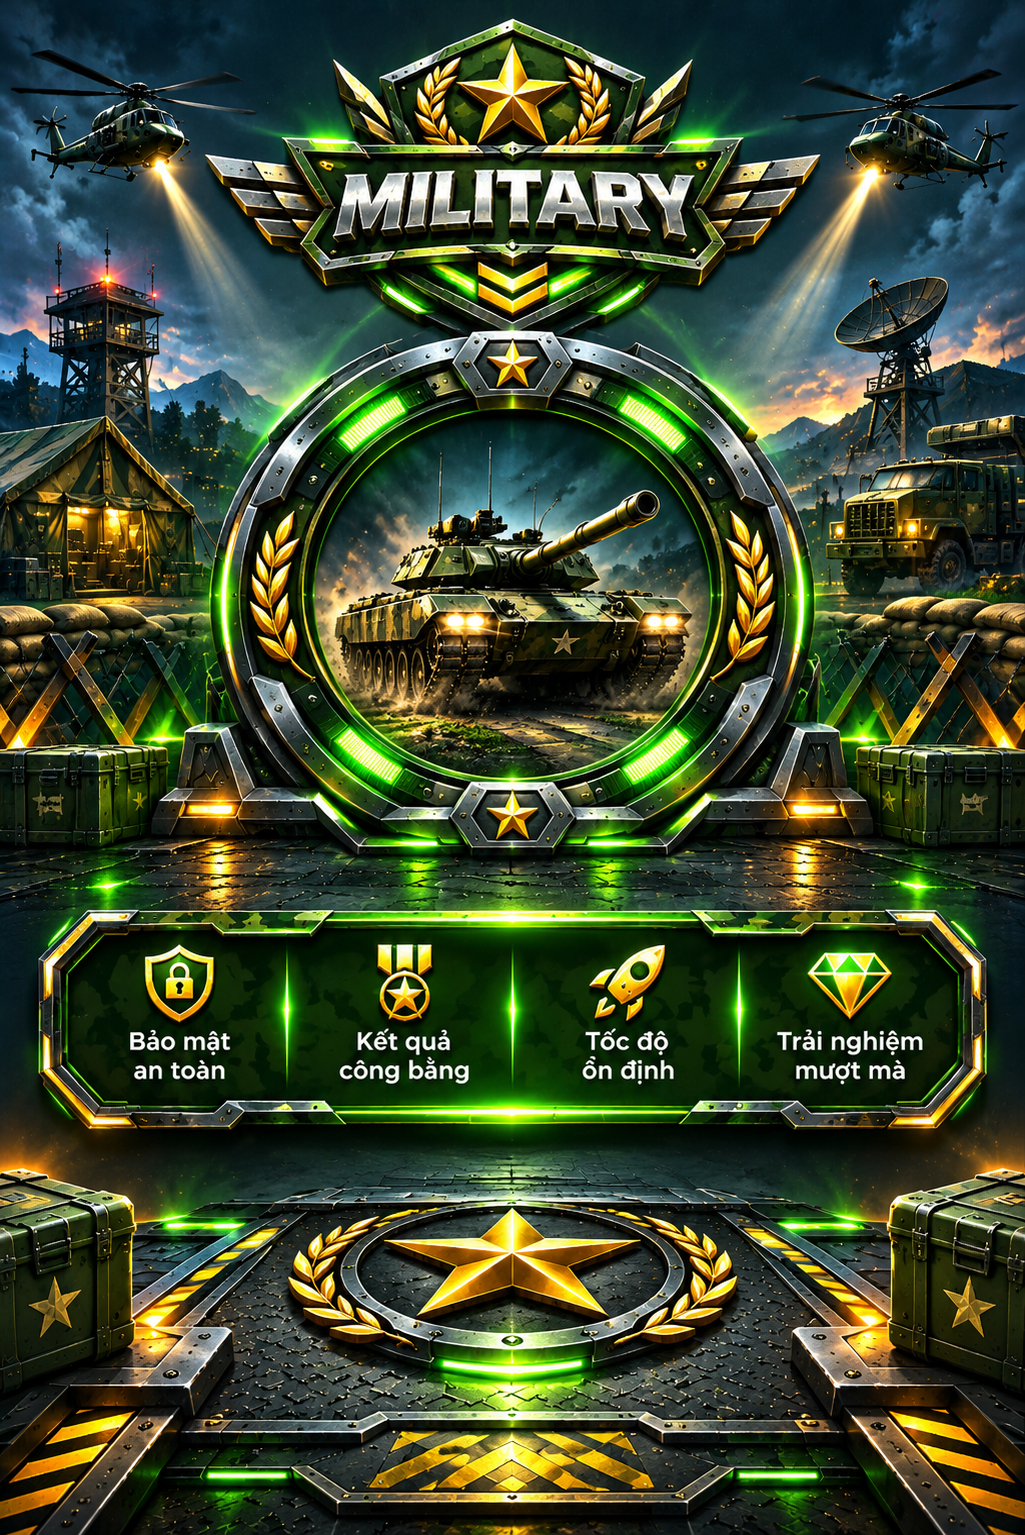
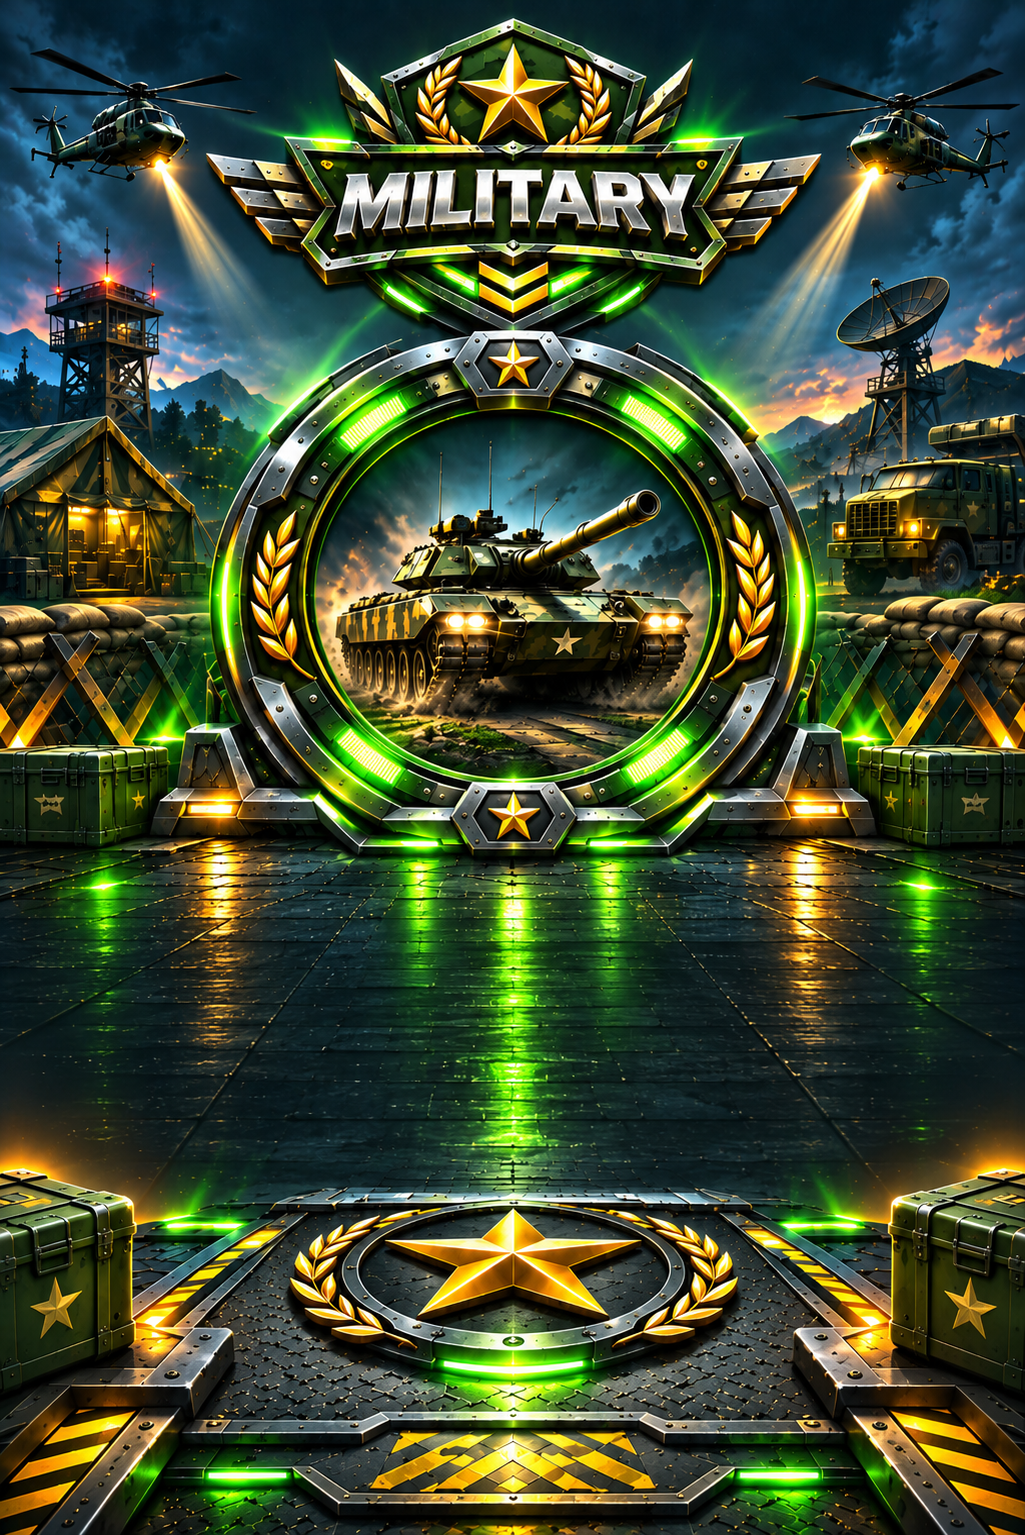
up

diff --git a/public/game-wheel8.html b/public/game-wheel8.html
@@ -3817,12 +3817,12 @@ onclick="closeRoundDetail()">✕</button>
 <div class="loading-ui">
 
     <!-- HUY HIỆU QUÂN ĐỘI -->
-    <div class="loading-army-badge" style="display: none;">
+    <div class="loading-army-badge">
         <div class="loading-army-star">★</div>
     </div>
 
     <!-- TÊN HỆ THỐNG -->
-    <div class="loading-brand" style="display: none;">
+    <div class="loading-brand">
         MILITARY SYSTEM
     </div>
 
